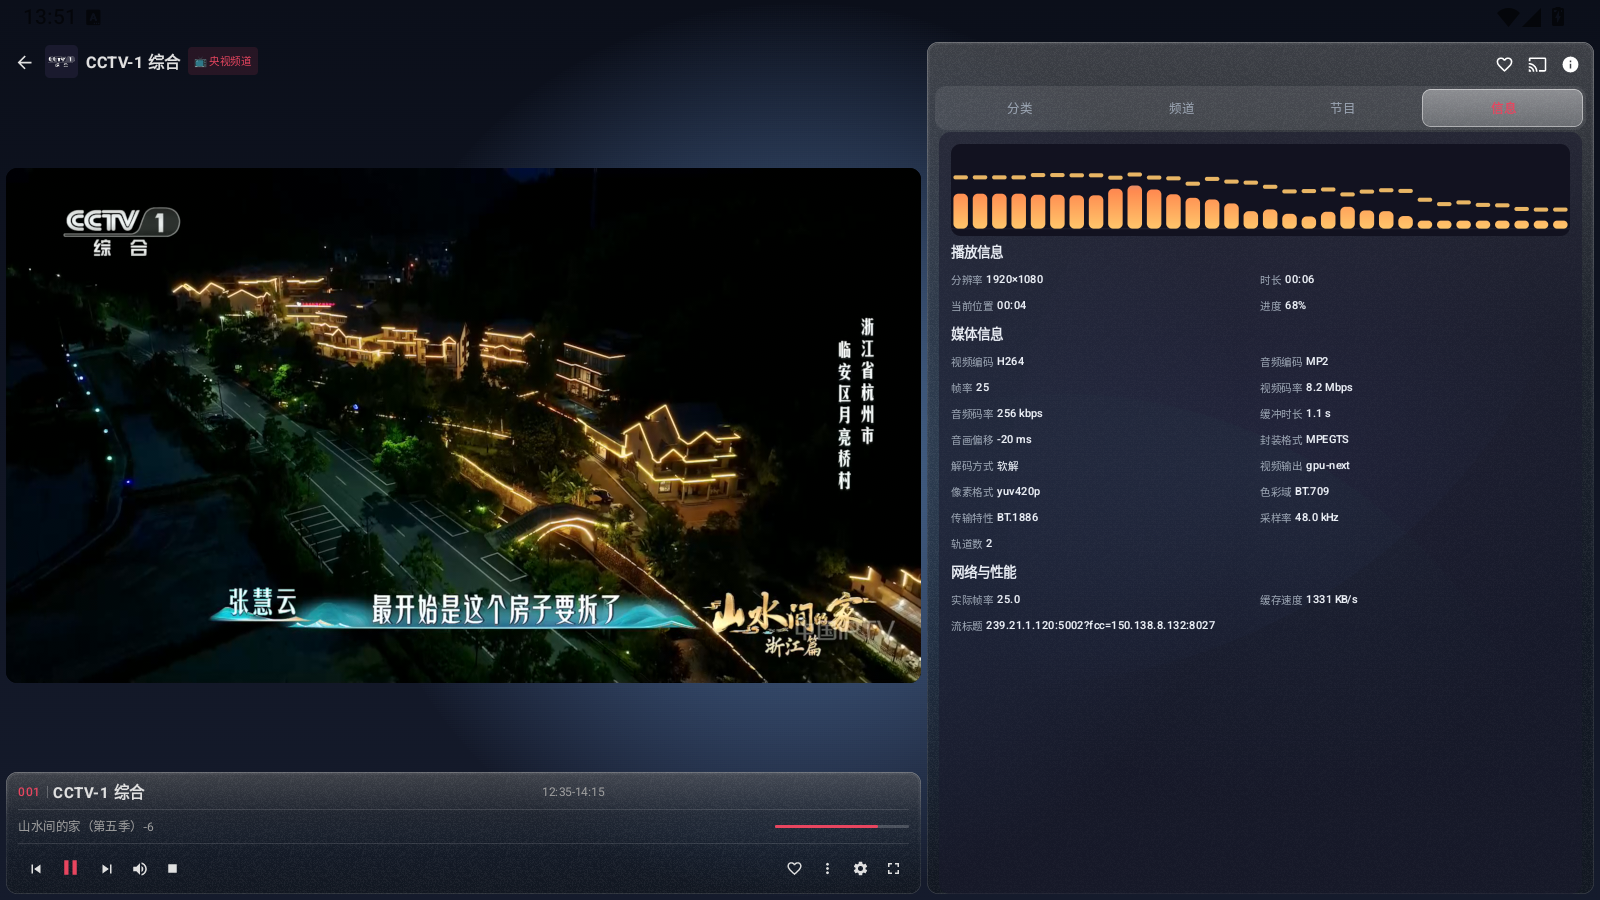
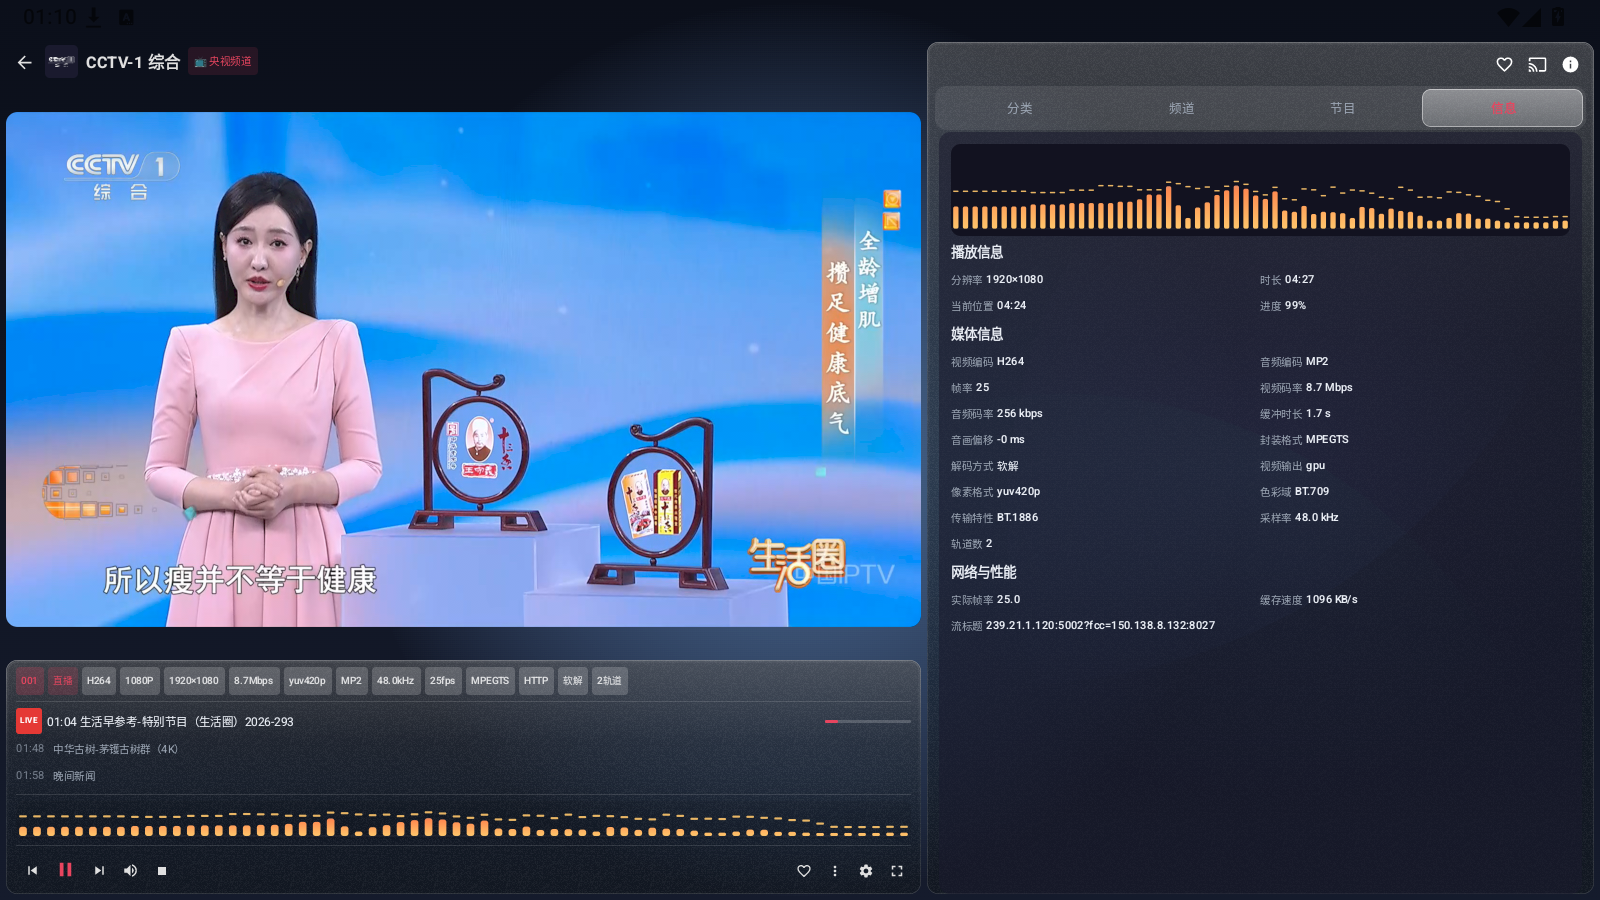
版本号升级 50.0.5.7，更新应用图标

diff --git a/android/app/src/main/python/core/version.py b/android/app/src/main/python/core/version.py
@@ -1,4 +1,4 @@
-CURRENT_VERSION = "50.0.5.6"
+CURRENT_VERSION = "50.0.5.7"
 BUILD_DATE = "2026-10-25"
 
 APP_USER_AGENT = f"GuangYu/{CURRENT_VERSION}"

diff --git a/core/version.py b/core/version.py
@@ -1,4 +1,4 @@
-CURRENT_VERSION = "50.0.5.6"
+CURRENT_VERSION = "50.0.5.7"
 BUILD_DATE = "2026-10-25"
 
 APP_USER_AGENT = f"GuangYu/{CURRENT_VERSION}"
